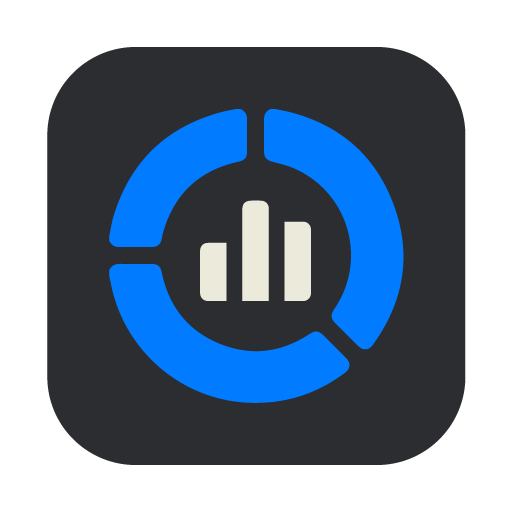
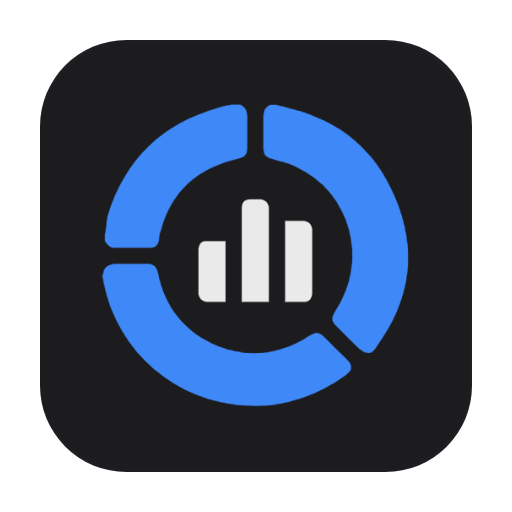
Updates

diff --git a/sw.js b/sw.js
@@ -1,1 +1,1 @@
-if(!self.define){let e,i={};const s=(s,n)=>(s=new URL(s+".js",n).href,i[s]||new Promise(i=>{if("document"in self){const e=document.createElement("script");e.src=s,e.onload=i,document.head.appendChild(e)}else e=s,importScripts(s),i()}).then(()=>{let e=i[s];if(!e)throw new Error(`Module ${s} didn’t register its module`);return e}));self.define=(n,r)=>{const t=e||("document"in self?document.currentScript.src:"")||location.href;if(i[t])return;let d={};const o=e=>s(e,t),l={module:{uri:t},exports:d,require:o};i[t]=Promise.all(n.map(e=>l[e]||o(e))).then(e=>(r(...e),d))}}define(["./workbox-3105ea8d"],function(e){"use strict";self.skipWaiting(),e.clientsClaim(),e.precacheAndRoute([{url:"registerSW.js",revision:"1872c500de691dce40960bb85481de07"},{url:"index.html",revision:"78348f6dc84111a133f61bd47155a29d"},{url:"assets/index-D_AHpvCI.js",revision:null},{url:"assets/index-CEMJJm86.css",revision:null},{url:"pwa-192x192.png",revision:"413a597d431d7da0a6a8e3923f9362d5"},{url:"pwa-512x512.png",revision:"a1cf6a6b1b2a2dd54bb38ab59b56cddb"},{url:"manifest.webmanifest",revision:"2e44ca45bc60da0ae9a680e0b1b4db3a"}],{}),e.cleanupOutdatedCaches(),e.registerRoute(new e.NavigationRoute(e.createHandlerBoundToURL("index.html")))});
+if(!self.define){let e,i={};const s=(s,n)=>(s=new URL(s+".js",n).href,i[s]||new Promise(i=>{if("document"in self){const e=document.createElement("script");e.src=s,e.onload=i,document.head.appendChild(e)}else e=s,importScripts(s),i()}).then(()=>{let e=i[s];if(!e)throw new Error(`Module ${s} didn’t register its module`);return e}));self.define=(n,r)=>{const t=e||("document"in self?document.currentScript.src:"")||location.href;if(i[t])return;let d={};const o=e=>s(e,t),l={module:{uri:t},exports:d,require:o};i[t]=Promise.all(n.map(e=>l[e]||o(e))).then(e=>(r(...e),d))}}define(["./workbox-3105ea8d"],function(e){"use strict";self.skipWaiting(),e.clientsClaim(),e.precacheAndRoute([{url:"registerSW.js",revision:"1872c500de691dce40960bb85481de07"},{url:"index.html",revision:"78348f6dc84111a133f61bd47155a29d"},{url:"assets/index-D_AHpvCI.js",revision:null},{url:"assets/index-CEMJJm86.css",revision:null},{url:"pwa-192x192.png",revision:"413a597d431d7da0a6a8e3923f9362d5"},{url:"pwa-512x512-mask.png",revision:"faebcae47e16541a4d9a32db796c7542"},{url:"pwa-512x512.png",revision:"19b264d6b0643e1af9dcc97e4a56a93b"},{url:"manifest.webmanifest",revision:"ae7fa2ebfa52d1366cfc127eb6858913"}],{}),e.cleanupOutdatedCaches(),e.registerRoute(new e.NavigationRoute(e.createHandlerBoundToURL("index.html")))});
